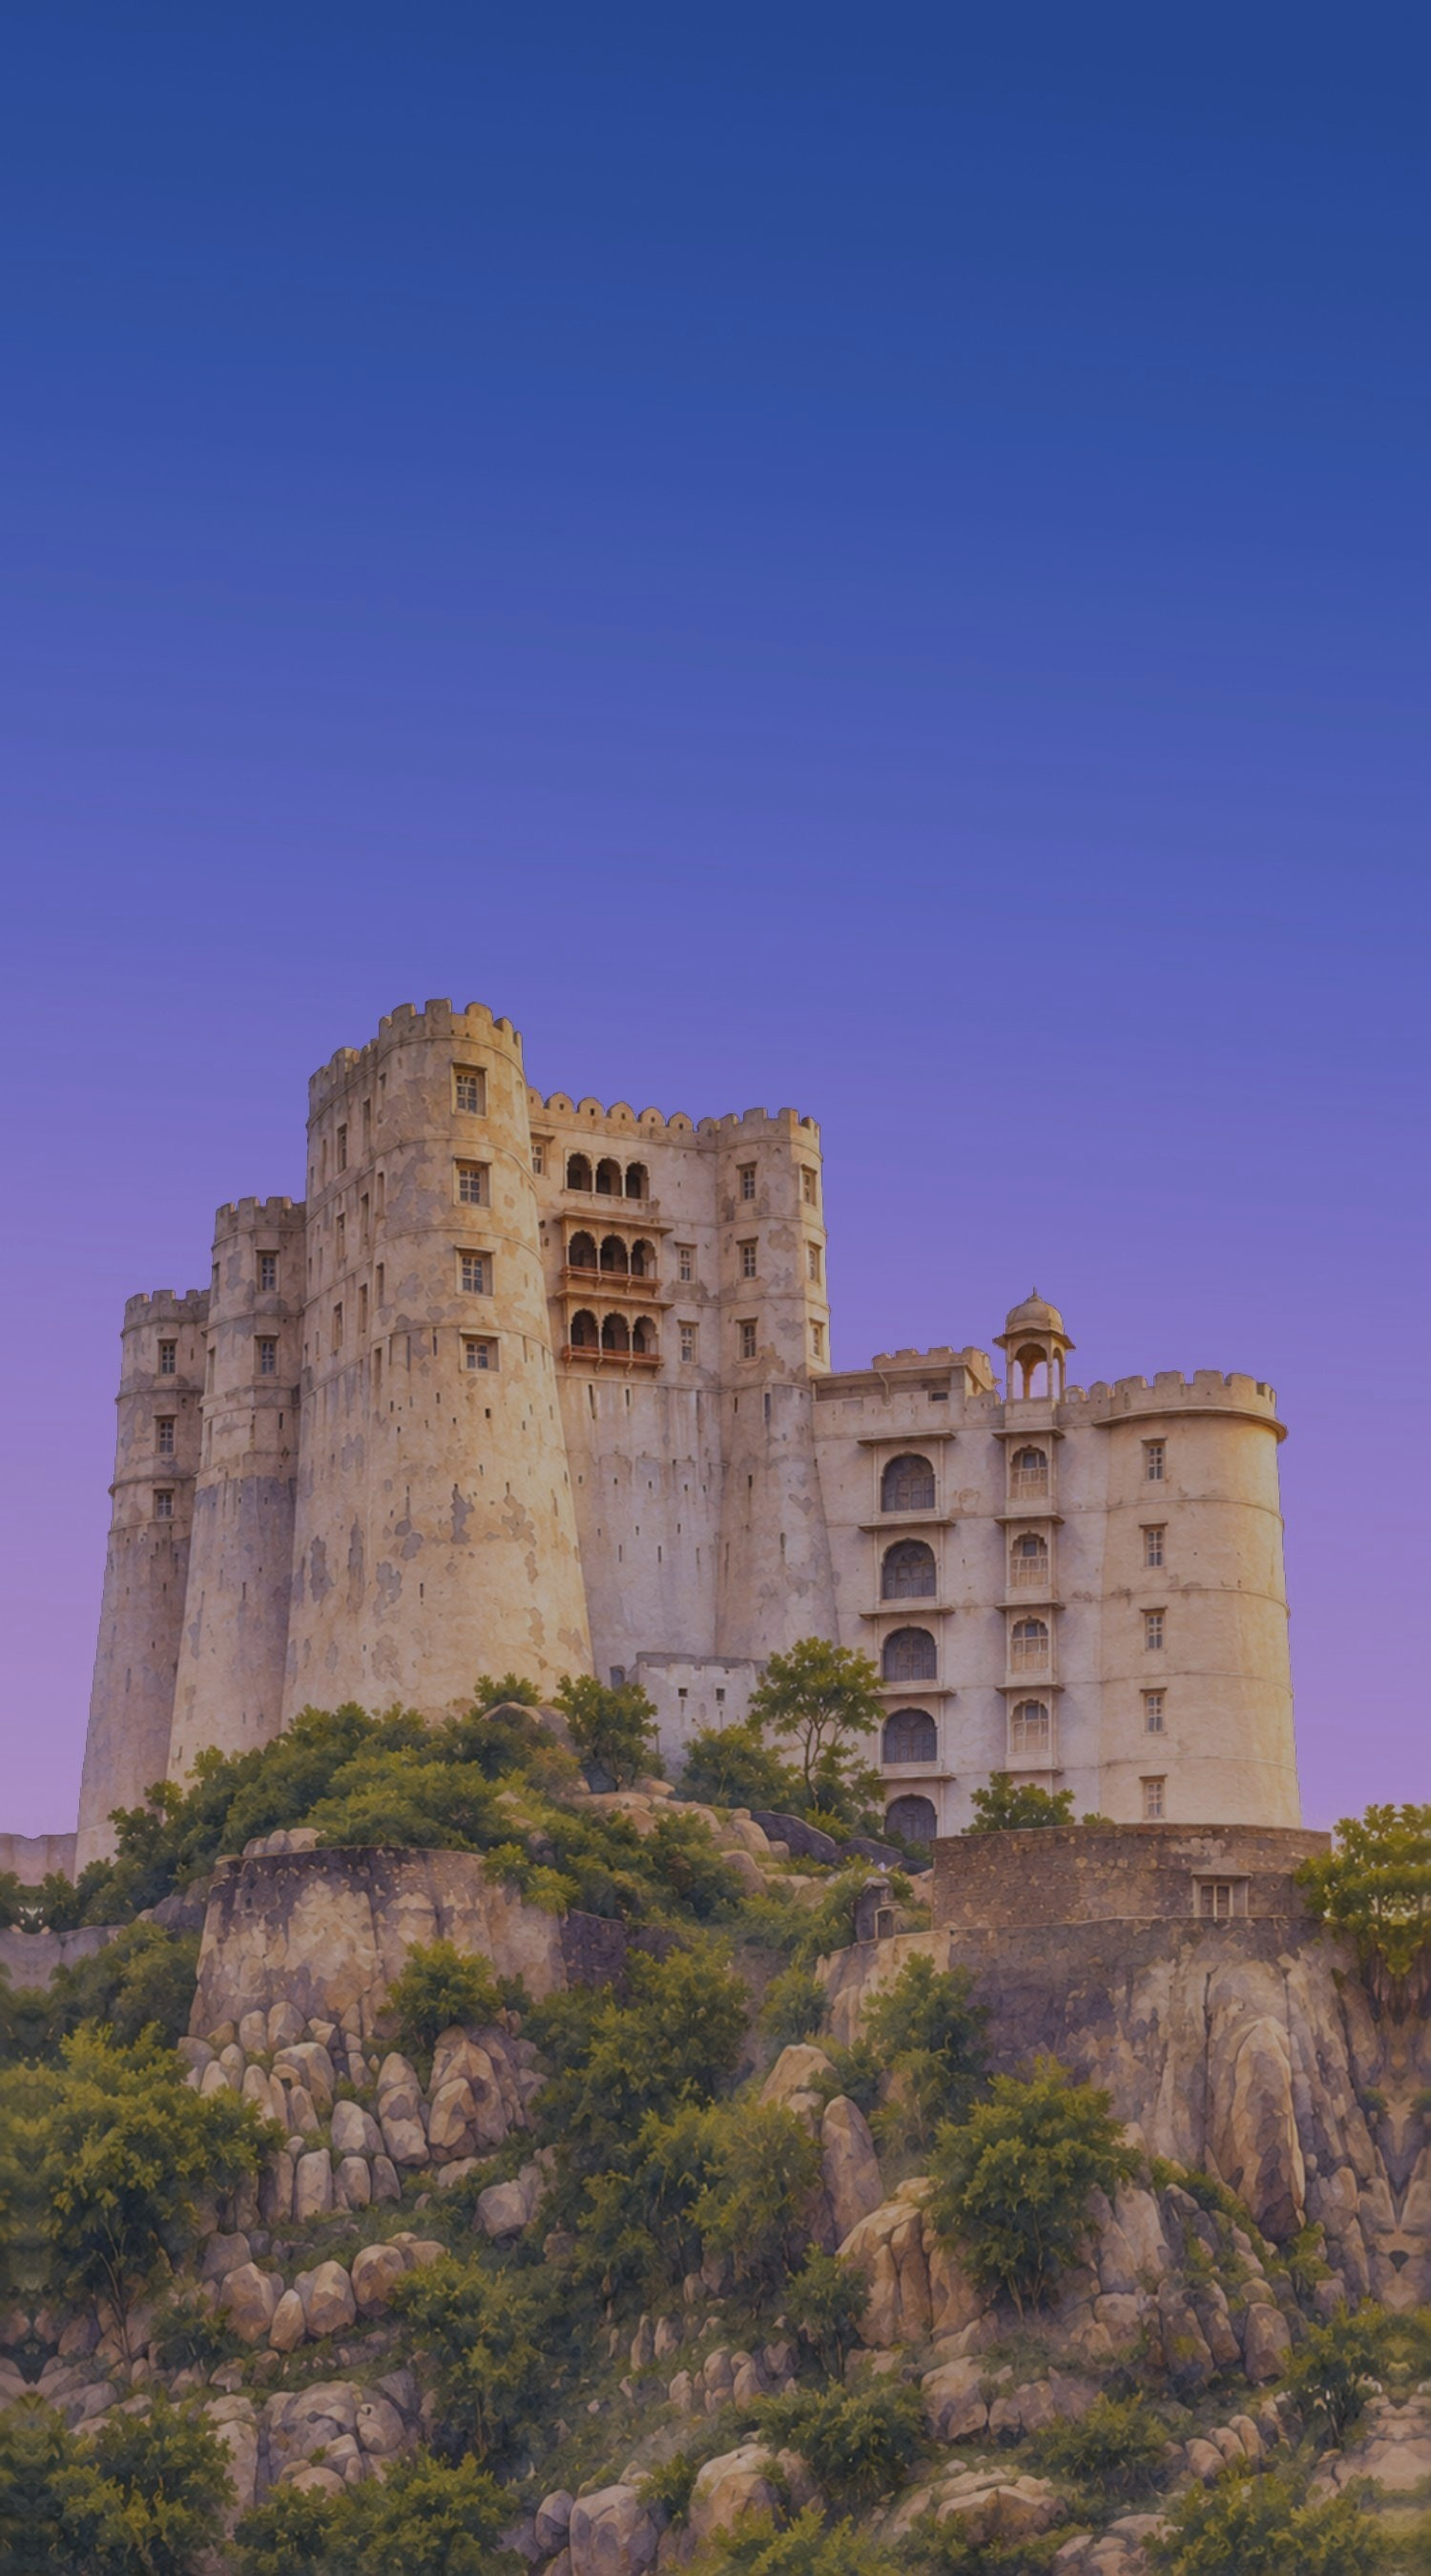
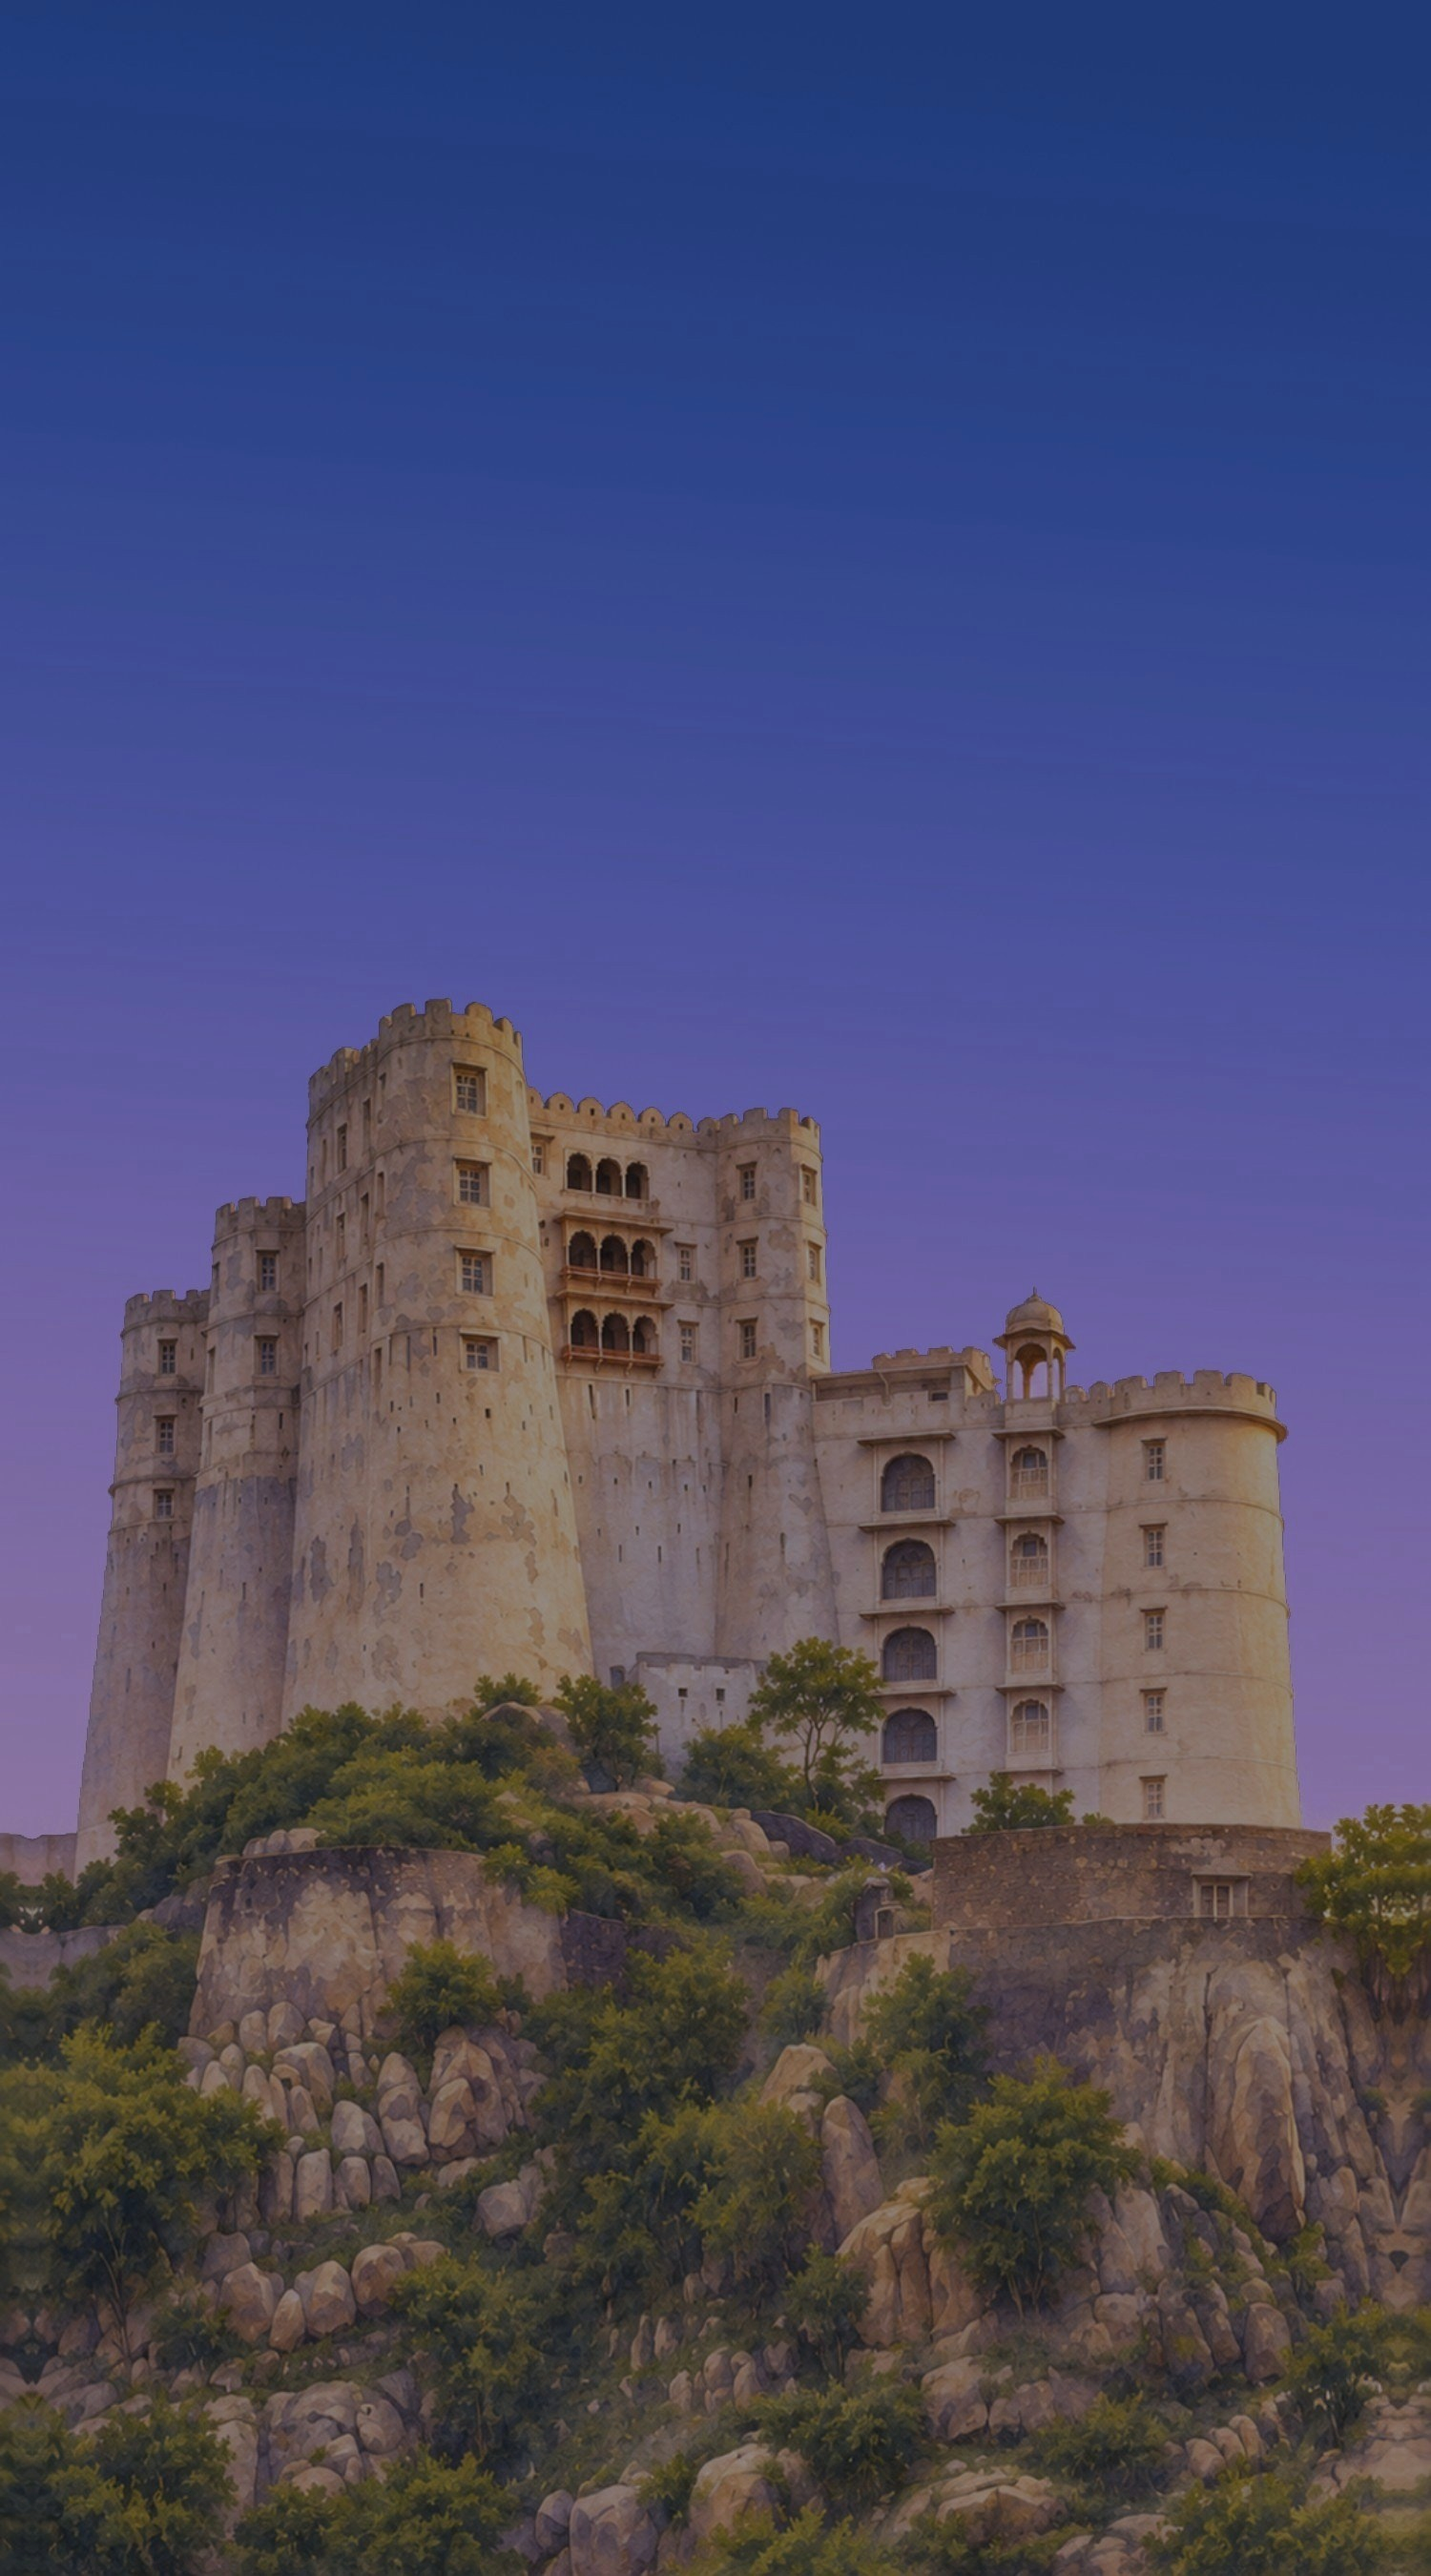
feat: add 3-second auto-scroll to page 3 after opening palace illumination

diff --git a/src/App.jsx b/src/App.jsx
@@ -17,6 +17,7 @@ gsap.registerPlugin(ScrollTrigger);
 export default function App() {
   const scrollContainerRef = useRef(null);
   const lenisRef = useRef(null);
+  const autoScrollTimerRef = useRef(null);
   const [isOpened, setIsOpened] = useState(false);
 
   useEffect(() => {
@@ -76,8 +77,66 @@ export default function App() {
     }
   }, [isOpened]);
 
+  // Cancel pending auto-scroll if the user manually starts scrolling with wheel or touch
+  useEffect(() => {
+    const scrollerEl = scrollContainerRef.current;
+    if (!scrollerEl) return;
+
+    const cancelAutoScroll = () => {
+      if (autoScrollTimerRef.current) {
+        clearTimeout(autoScrollTimerRef.current);
+        autoScrollTimerRef.current = null;
+      }
+    };
+
+    scrollerEl.addEventListener('wheel', cancelAutoScroll, { passive: true });
+    scrollerEl.addEventListener('touchmove', cancelAutoScroll, { passive: true });
+
+    return () => {
+      scrollerEl.removeEventListener('wheel', cancelAutoScroll);
+      scrollerEl.removeEventListener('touchmove', cancelAutoScroll);
+      if (autoScrollTimerRef.current) {
+        clearTimeout(autoScrollTimerRef.current);
+      }
+    };
+  }, []);
+
   const handleOpenInvitation = () => {
     setIsOpened(true);
+  };
+
+  const scrollToPageThree = () => {
+    if (autoScrollTimerRef.current) {
+      clearTimeout(autoScrollTimerRef.current);
+      autoScrollTimerRef.current = null;
+    }
+
+    const page3El = document.getElementById('page-3');
+    const scrollerEl = scrollContainerRef.current;
+    if (!page3El) return;
+
+    if (lenisRef.current) {
+      lenisRef.current.resize();
+      lenisRef.current.scrollTo(page3El, {
+        duration: 2.0,
+        easing: (t) => Math.min(1, 1.001 - Math.pow(2, -10 * t)),
+      });
+    } else if (scrollerEl) {
+      scrollerEl.scrollTo({
+        top: page3El.offsetTop,
+        behavior: 'smooth',
+      });
+    }
+  };
+
+  // Called when the second image is fully visible: waits 3 seconds then auto-scrolls to Page 3
+  const handleSecondImageVisible = () => {
+    if (autoScrollTimerRef.current) {
+      clearTimeout(autoScrollTimerRef.current);
+    }
+    autoScrollTimerRef.current = setTimeout(() => {
+      scrollToPageThree();
+    }, 3000);
   };
 
   return (
@@ -94,7 +153,11 @@ export default function App() {
               id="opening-page"
               className="relative w-full h-[100dvh] md:h-[852px] min-h-[100dvh] md:min-h-[852px] flex-shrink-0 gpu-layer overflow-hidden"
             >
-              <OpeningScreen onOpen={handleOpenInvitation} />
+              <OpeningScreen
+                onOpen={handleOpenInvitation}
+                onSecondImageVisible={handleSecondImageVisible}
+                onManualScrollRequest={scrollToPageThree}
+              />
             </section>
 
             {/* Subsequent Invitation Pages in single page scroll */}

diff --git a/src/components/Opening/OpeningScreen.jsx b/src/components/Opening/OpeningScreen.jsx
@@ -3,7 +3,7 @@ import gsap from 'gsap';
 import img1 from '../../assets/img1.jpg';
 import img2 from '../../assets/img2.jpg';
 
-export default function OpeningScreen({ onOpen }) {
+export default function OpeningScreen({ onOpen, onSecondImageVisible, onManualScrollRequest }) {
   const [isRemoved, setIsRemoved] = useState(false);
   const [isBlending, setIsBlending] = useState(false);
   const [showPrompt, setShowPrompt] = useState(true);
@@ -44,7 +44,12 @@ export default function OpeningScreen({ onOpen }) {
   }, []);
 
   const handlePageClick = () => {
-    if (isBlending || isRemoved) return;
+    if (isRemoved) {
+      // User tapped while second image is visible: scroll immediately
+      if (onManualScrollRequest) onManualScrollRequest();
+      return;
+    }
+    if (isBlending) return;
     setIsBlending(true);
     
     // Stop floating pulse animation
@@ -78,6 +83,8 @@ export default function OpeningScreen({ onOpen }) {
       onComplete: () => {
         // Completely remove img1 from DOM after blend finishes
         setIsRemoved(true);
+        // Second image is now fully visible: trigger 3s auto-scroll to Page 3
+        if (onSecondImageVisible) onSecondImageVisible();
       },
     });
   };
@@ -85,9 +92,7 @@ export default function OpeningScreen({ onOpen }) {
   return (
     <div
       onClick={handlePageClick}
-      className={`relative w-full h-full min-h-[100dvh] md:min-h-[852px] overflow-hidden select-none gpu-layer ${
-        !isRemoved ? 'cursor-pointer' : ''
-      }`}
+      className="relative w-full h-full min-h-[100dvh] md:min-h-[852px] overflow-hidden select-none gpu-layer cursor-pointer"
       aria-label="Opening Page"
     >
       {/* Underlying Image: img2 (Base Layer) */}
